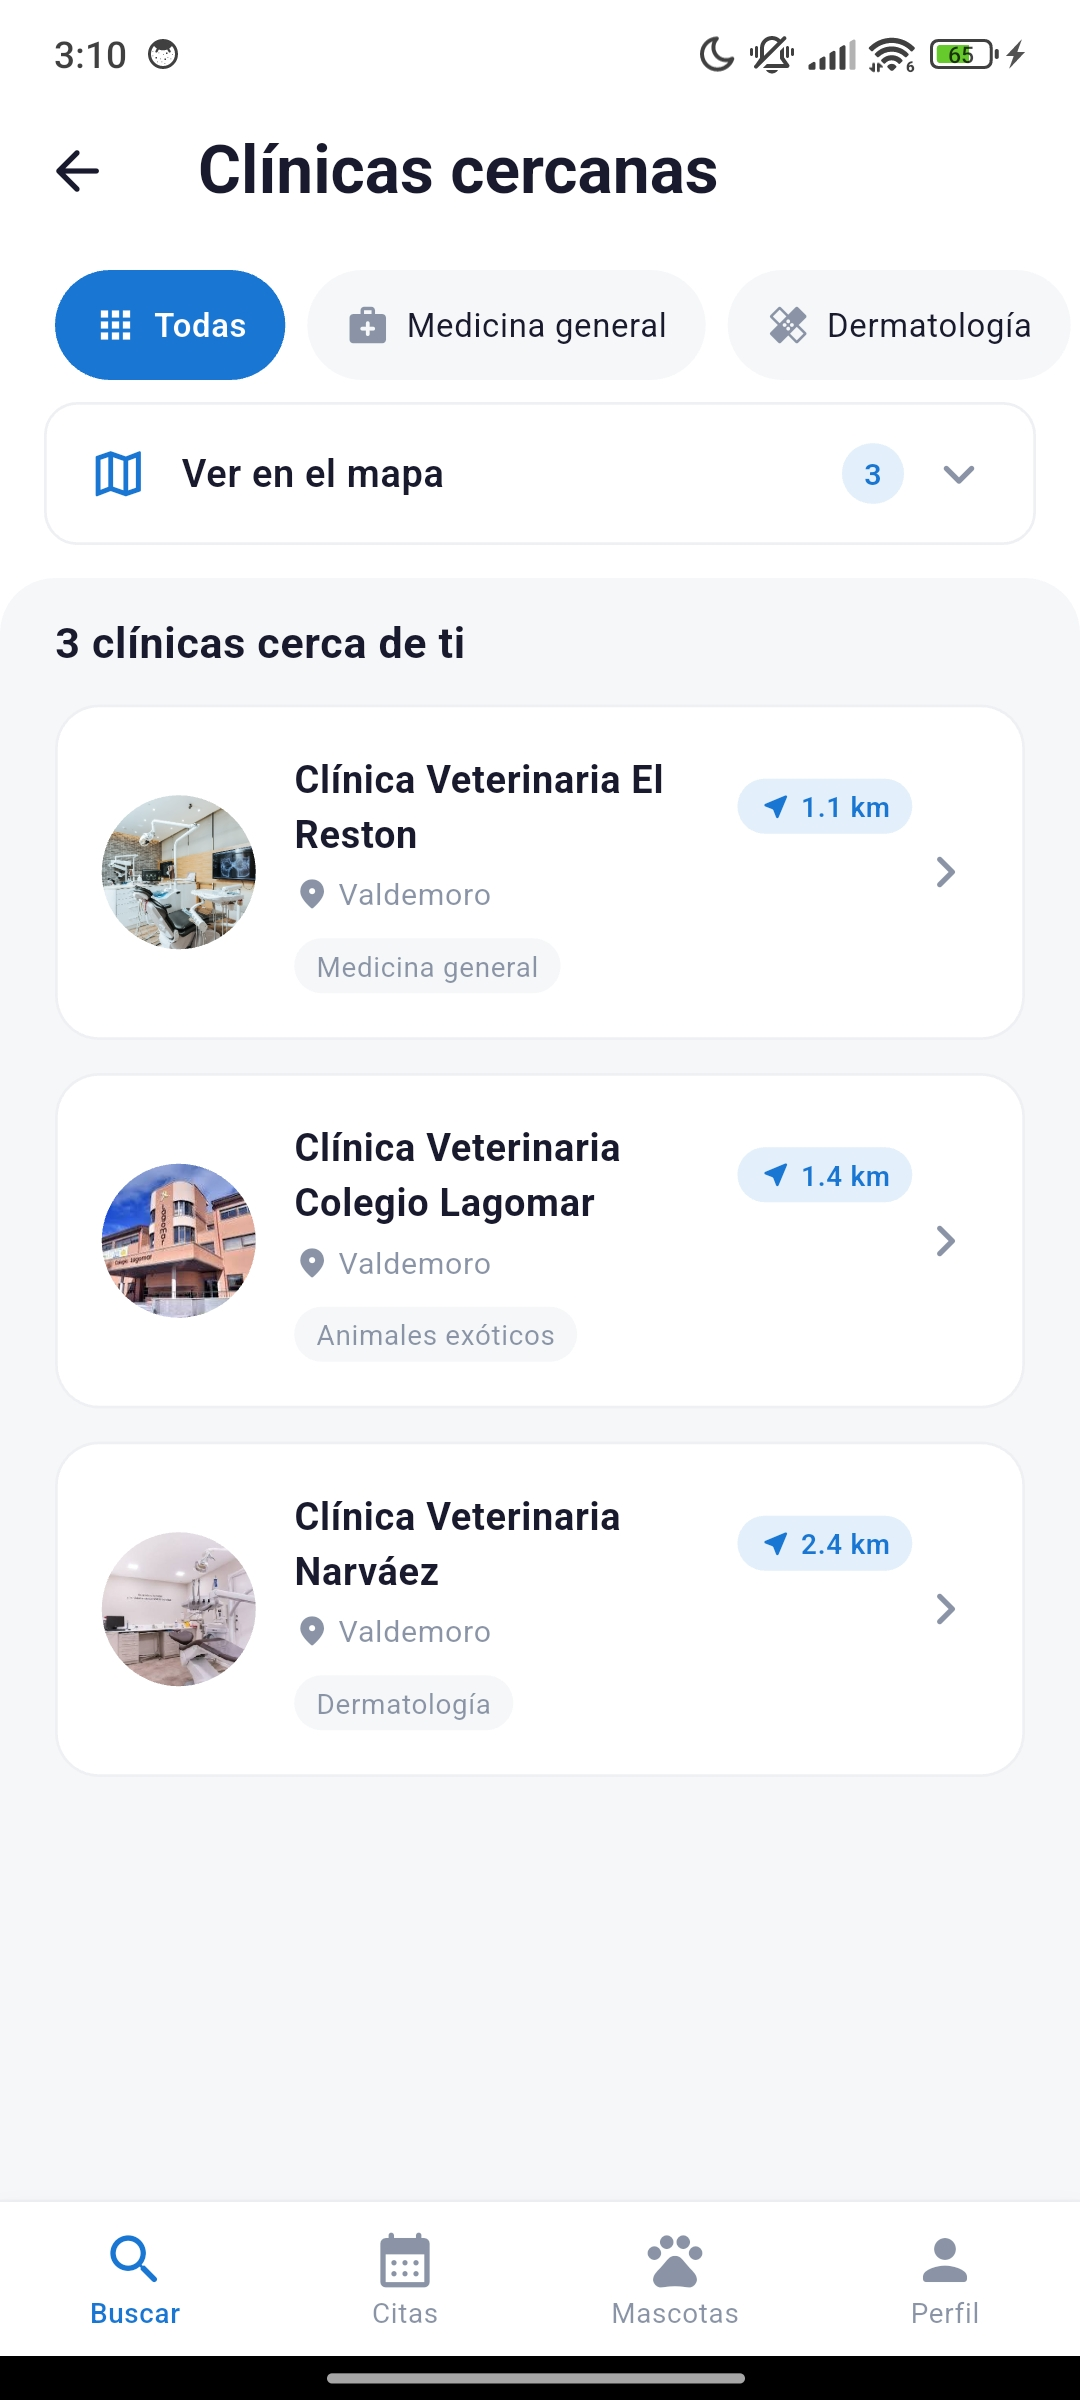
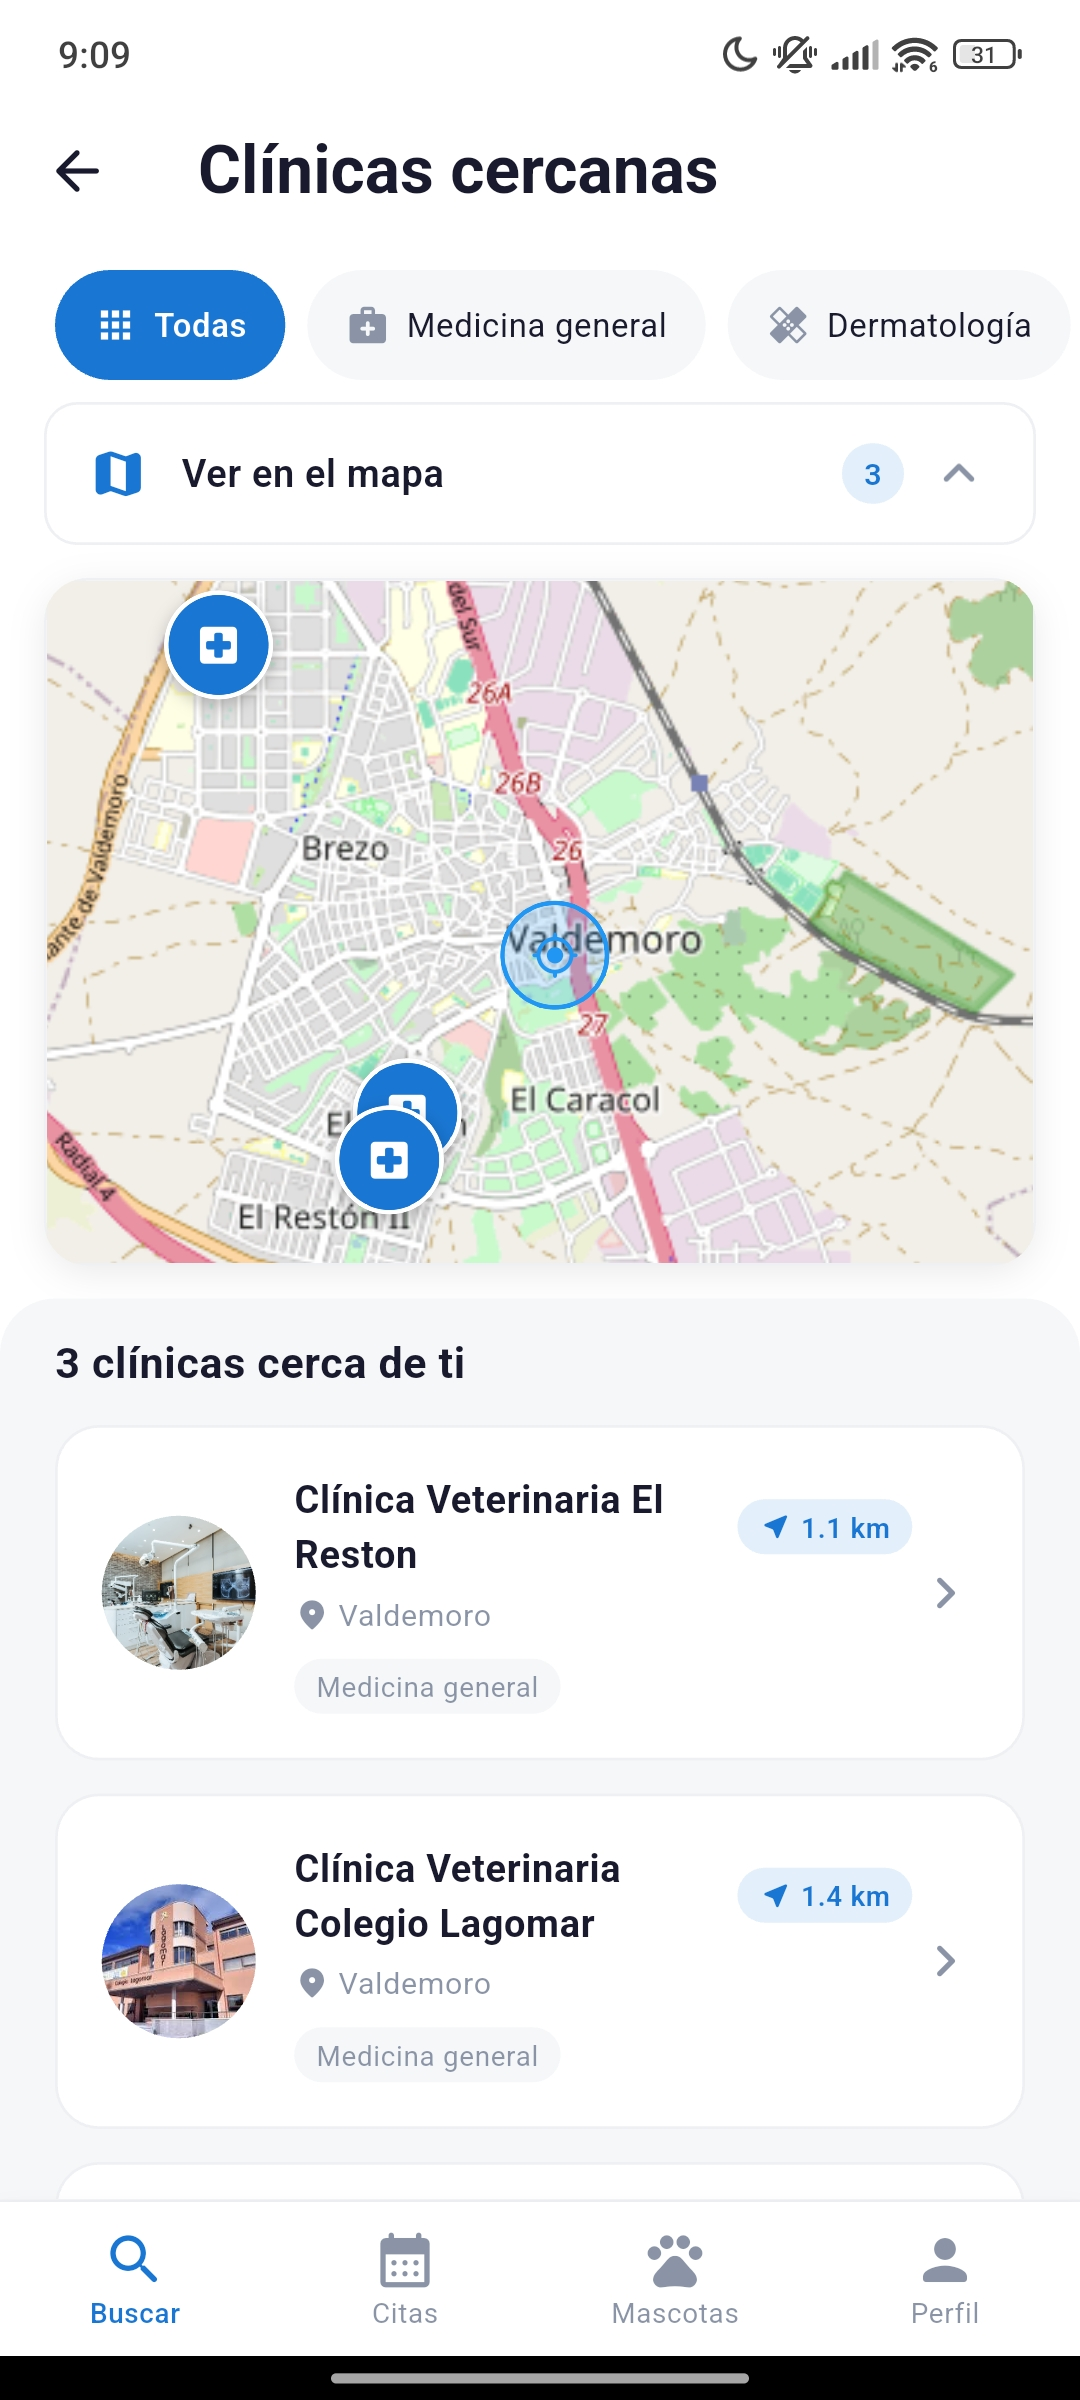
Actualizar la imagen de búsqueda de propietarios en la sección de capturas de pantalla del README.md para mejorar la presentación visual de la documentación.

diff --git a/README.md b/README.md
@@ -334,13 +334,6 @@ dart run build_runner build --delete-conflicting-outputs
 
 ---
 
-## Licencia
-
-Este proyecto es de uso privado (`publish_to: 'none'` en `pubspec.yaml`).  
-Si deseas publicarlo o distribuirlo, define aquí la licencia aplicable (por ejemplo MIT) y actualiza este apartado.
-
----
-
 ## Enlaces útiles
 
 - [Documentación Flutter](https://docs.flutter.dev/)